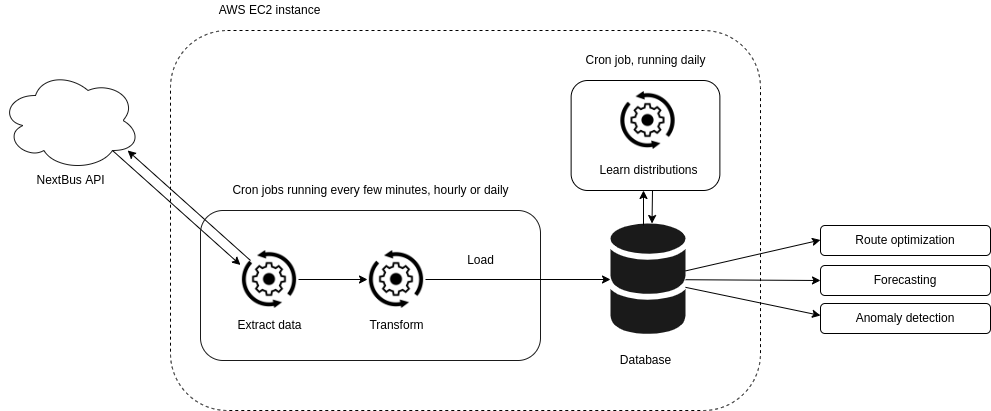
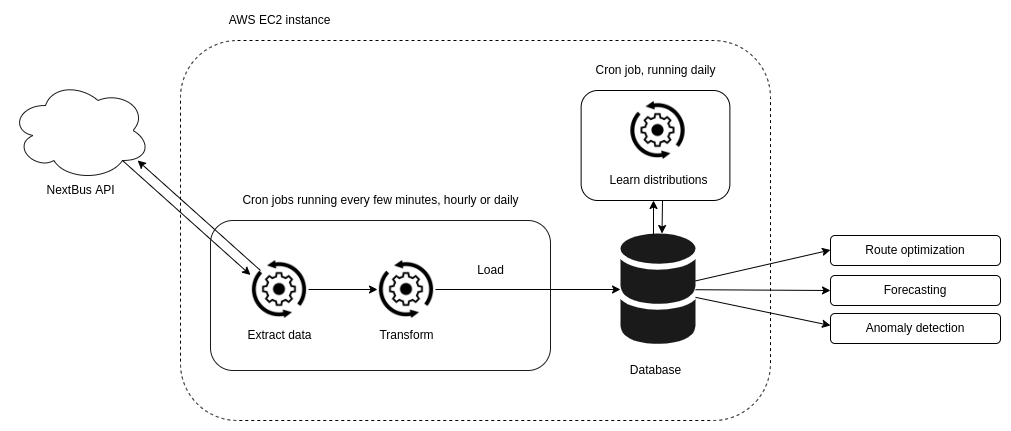
Updated README and project architecture diagram.

diff --git a/README.md b/README.md
@@ -1,8 +1,8 @@
 # Route optimization with transit open data
 
-Collect near-time transit data from public APIs and explore solutions to time-dependent (TD) routing optimization problems, such as TD shortest path and TDTSP.
+This project collects live transit data from public APIs, which I'm using to experiment with route optimization, forecasting and anomaly detection methods. This is a work in progress.
 
-I'm working here with the Toronto Transit Commission (TTC) bus & streetcar data, but any transit agency covered by the [NextBus](https://en.wikipedia.org/wiki/NextBus) [web API](https://retro.umoiq.com/xmlFeedDocs/NextBusXMLFeed.pdf) can be used. I'm actively working on this project, which is still in progress.
+I'm working here with the Toronto Transit Commission (TTC) bus & streetcar data, but any transit agency covered by the [NextBus](https://en.wikipedia.org/wiki/NextBus) [web API](https://retro.umoiq.com/xmlFeedDocs/NextBusXMLFeed.pdf) can be used. 
 
 &nbsp;
 
@@ -11,27 +11,11 @@ I'm working here with the Toronto Transit Commission (TTC) bus & streetcar data,
 ![Project architecture](./img/project_architecture.png) 
 &nbsp;
 
-## 1. Data collection
-Transit and location data is collected every 5 min from a fleet of ~2000 vehicles, with week-long retention. 
+## Data
+Location data is collected every few minutes from a fleet of ~2000 vehicles, with week-long retention. 
 
-&nbsp;
 
-## 2. Statistical inference 
-How long does this route take during rush hour? What about off-peak?   
-Infer transit time distributions from the collected location data. I'm learning to use [PyMC3](https://docs.pymc.io/en/v3/) for this.  
 
-&nbsp;
 
-## 3. Optimization  
-The collected data lets us model transit as a weighted directed graph in a few different ways: 
-
-- __Statically__: Nodes are stops connected along routes, with edges weighted by physical distance;
-- __Dynamically__: Edges are weighted by time-dependent statistics drawn from the above distributions, such as expected time of transit or 99th percentiles of times taken over all recorded trips. 
-
-&nbsp;
-
-Route optimization for static models can be handled with standard tools (e.g. Dijkstra's algorithm for shortest path, or the Miller-Tucker-Zemlin ILP model for TSP thrown at GLPK). The time-dependent versions are much more difficult and interesting, with the literature pointing towards metaheuristics as one approach I might follow.  
-
-I'm currently learning about all this, and this part is very much a work in progress.
 
 
